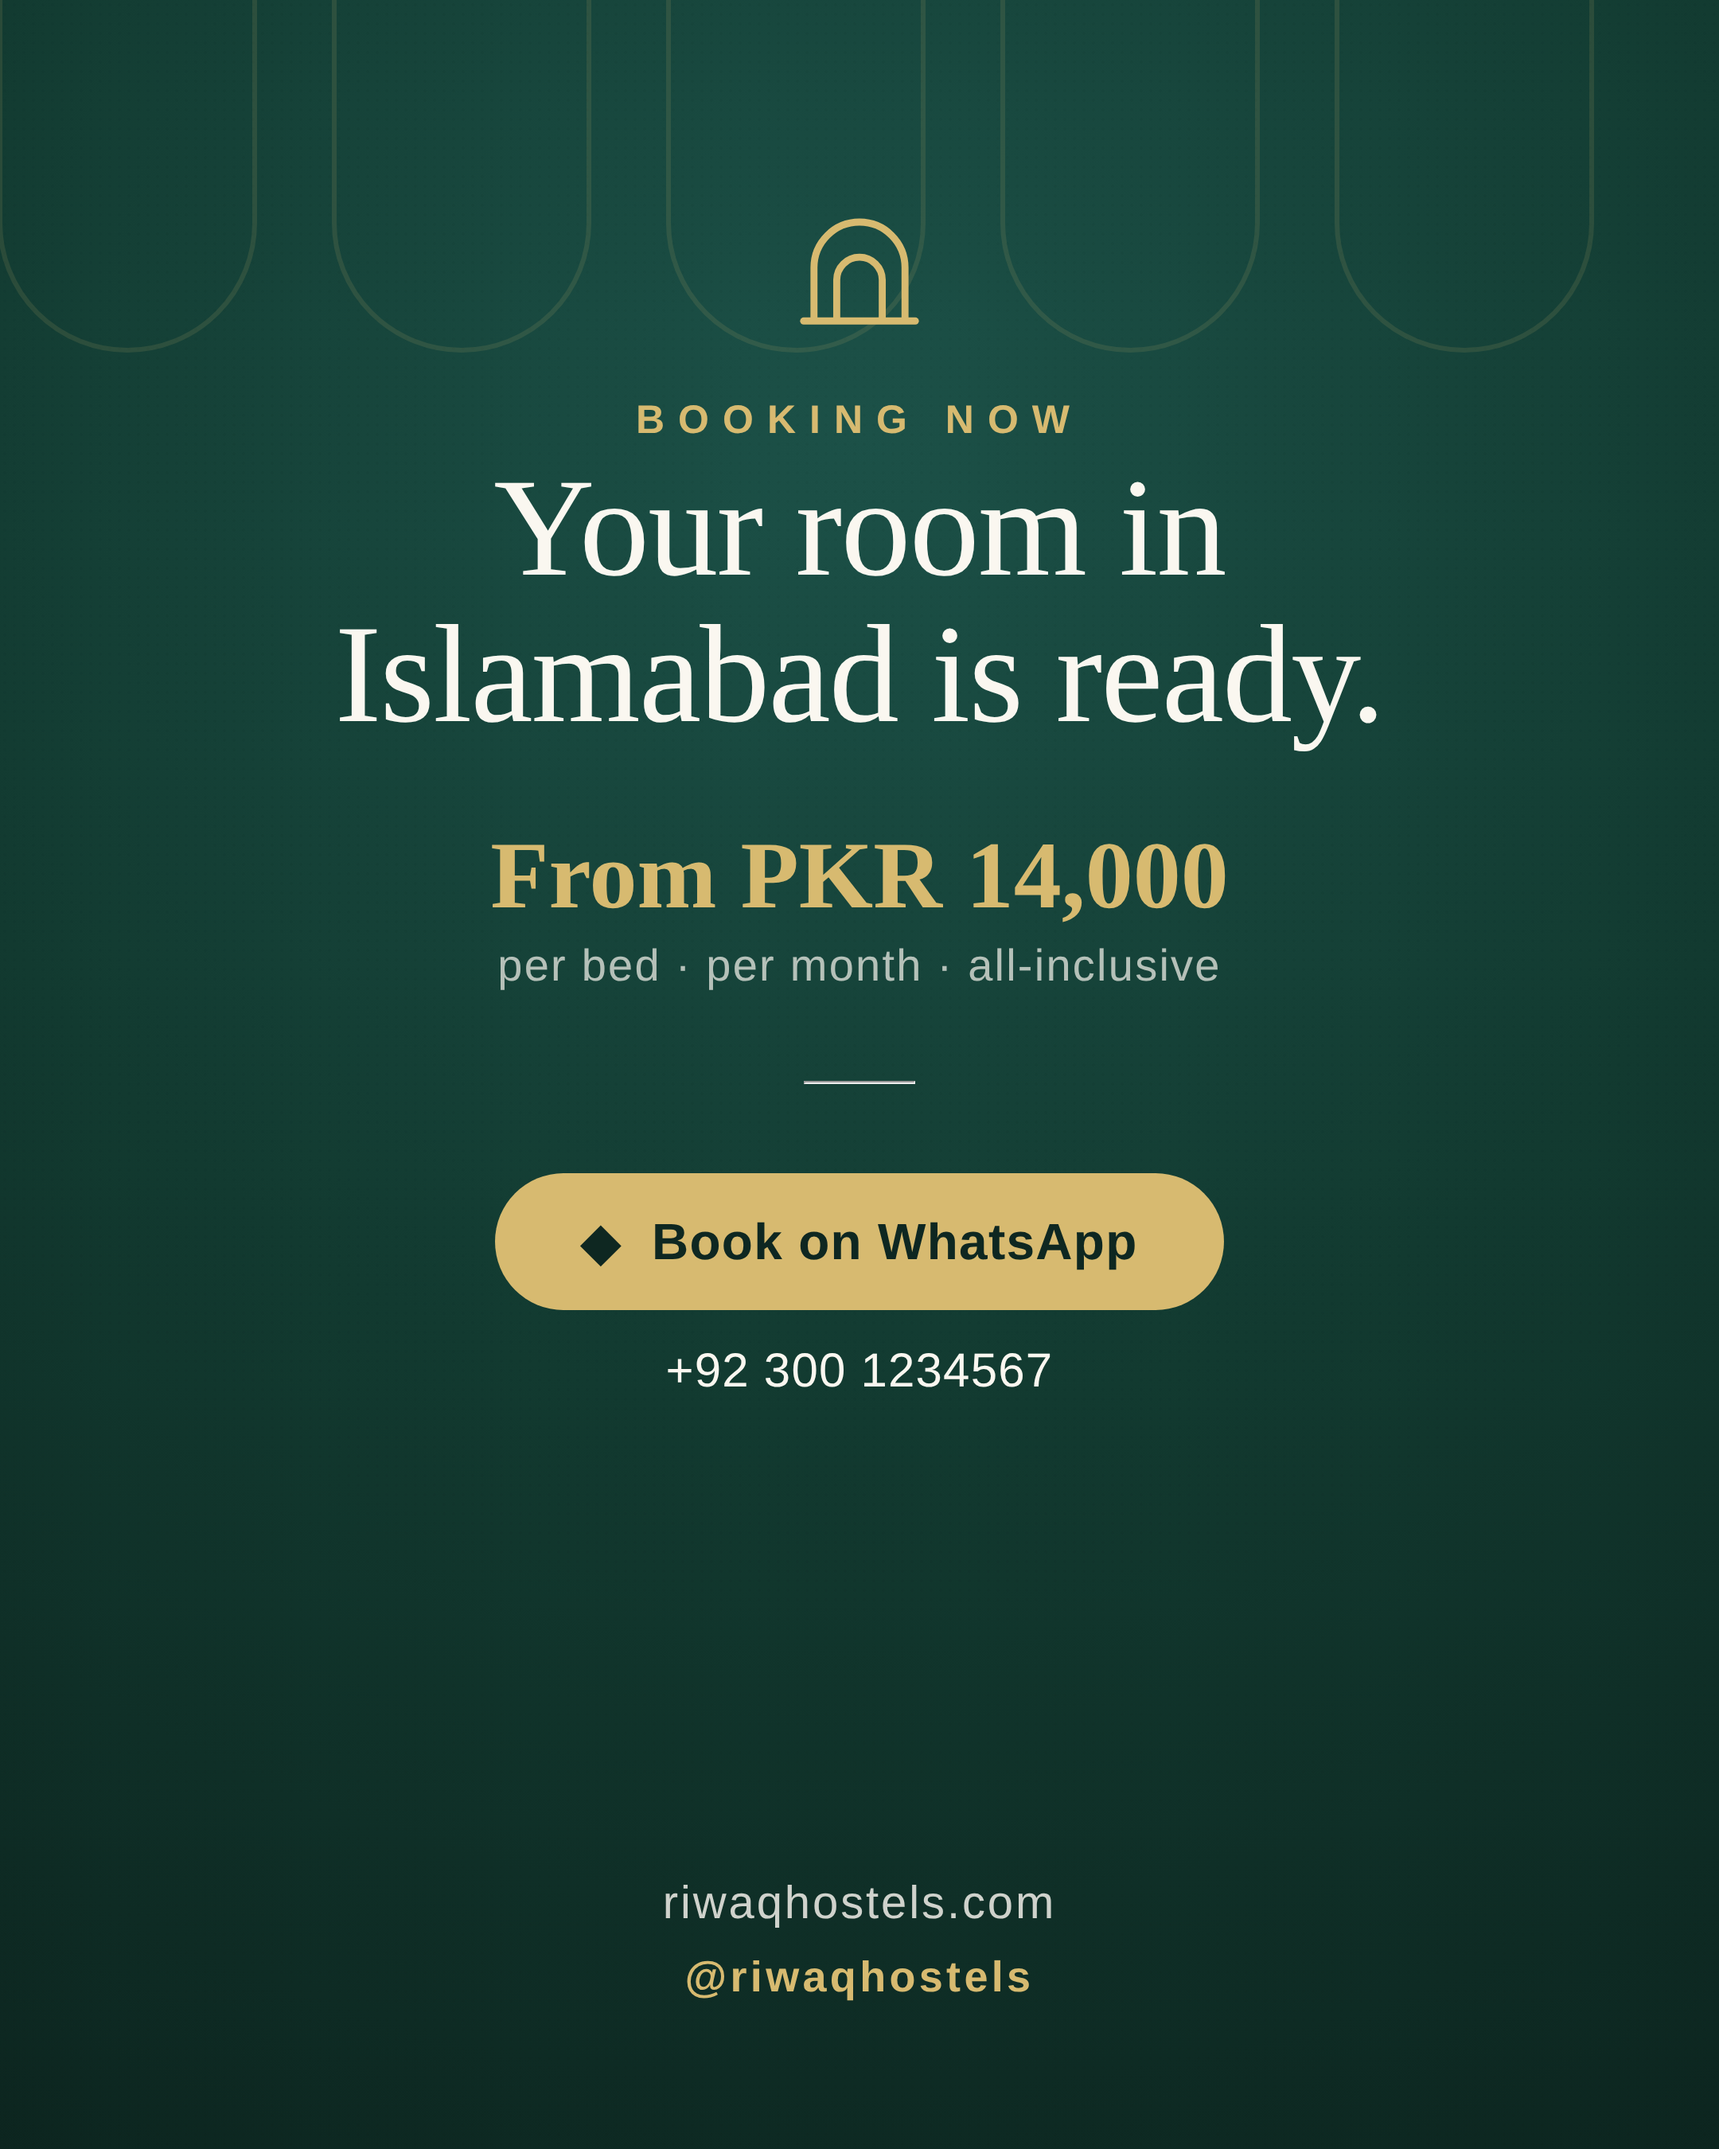
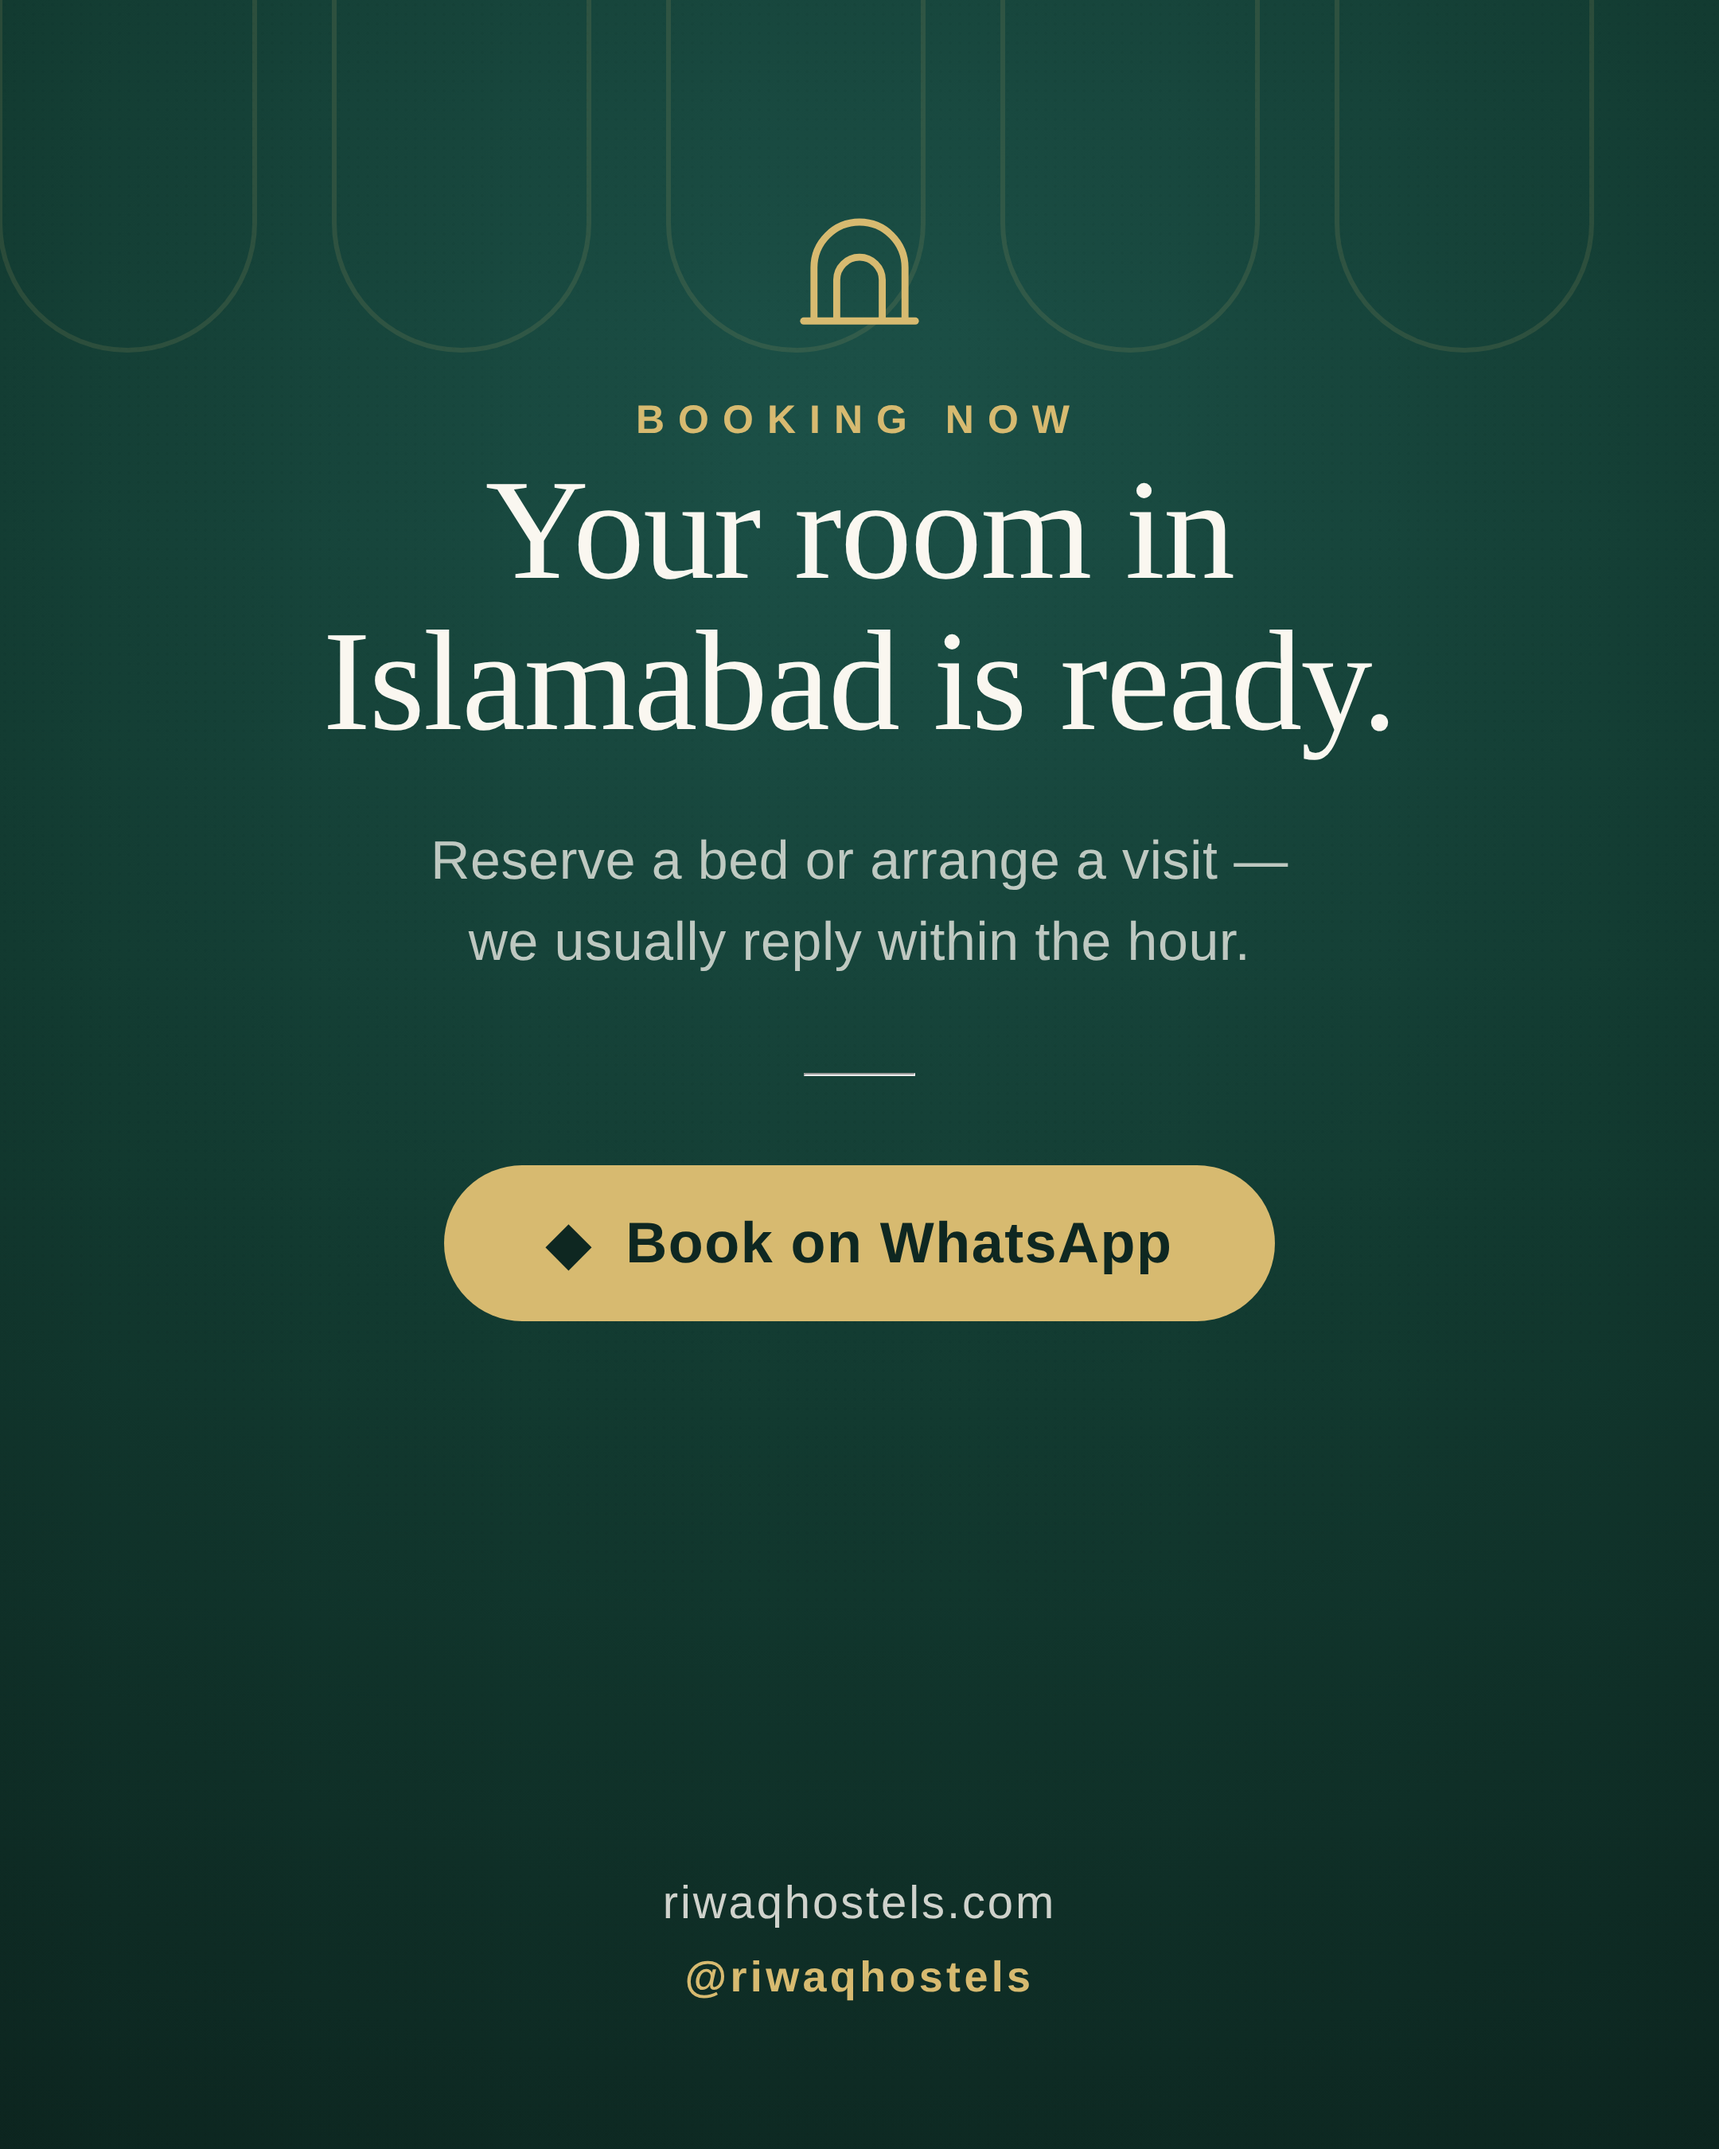
Revise IG CTA slide — remove price and phone number
Per feedback: drop the "From PKR 14,000" pricing and the WhatsApp number from
the launch carousel's CTA slide, keeping a clean "Book on WhatsApp" call to
action with a short supporting line. Regenerated the PNG and updated its source.

Claude-Session: https://claude.ai/code/session_01Axk12iXgc3QbB1gX3FvEiF

Changed region(s): [[0.2481, 0.5289, 0.7444, 0.6533], [0.1861, 0.2178, 0.8065, 0.3733], [0.2481, 0.3733, 0.7134, 0.4667]]

diff --git a/brand-assets/instagram/slide-3-cta.html b/brand-assets/instagram/slide-3-cta.html
@@ -12,14 +12,11 @@
 .inner{position:absolute;inset:0;display:flex;flex-direction:column;align-items:center;text-align:center;padding:120px 96px;z-index:3}
 .eyebrow{font-family:'Inter',sans-serif;font-size:25px;font-weight:600;letter-spacing:.34em;color:#d7ba70;text-transform:uppercase}
 .mark{width:104px;height:104px;margin-bottom:26px}
-.head{font-size:88px;line-height:1.05;font-weight:500;letter-spacing:-.01em;max-width:820px;margin-top:8px}
-.price{margin-top:44px;font-family:'Inter',sans-serif}
-.price .amt{font-family:'Fraunces',serif;font-size:60px;font-weight:600;color:#d7ba70}
-.price .lbl{font-size:28px;color:rgba(250,247,240,.7);letter-spacing:.04em;margin-top:6px}
+.head{font-size:90px;line-height:1.05;font-weight:500;letter-spacing:-.01em;max-width:820px;margin-top:8px}
+.subline{margin-top:40px;font-family:'Inter',sans-serif;font-size:34px;line-height:1.5;font-weight:400;color:rgba(250,247,240,.74);letter-spacing:.01em;max-width:700px}
 .rule{width:70px;height:2px;background:#c9a24b;margin:56px 0}
 .cta{display:flex;flex-direction:column;gap:22px;align-items:center}
-.btn{font-family:'Inter',sans-serif;font-size:32px;font-weight:600;letter-spacing:.02em;color:#0e2721;background:#d7ba70;border-radius:999px;padding:24px 54px;display:inline-flex;align-items:center;gap:16px}
-.line{font-family:'Inter',sans-serif;font-size:30px;font-weight:500;color:#faf7f0;letter-spacing:.02em}
+.btn{font-family:'Inter',sans-serif;font-size:36px;font-weight:600;letter-spacing:.02em;color:#0e2721;background:#d7ba70;border-radius:999px;padding:28px 64px;display:inline-flex;align-items:center;gap:16px}
 .foot{position:absolute;left:0;right:0;bottom:92px;display:flex;flex-direction:column;align-items:center;gap:14px;z-index:3}
 .web{font-family:'Inter',sans-serif;font-size:29px;font-weight:500;color:rgba(250,247,240,.82);letter-spacing:.05em}
 .handle{font-family:'Inter',sans-serif;font-size:27px;font-weight:600;letter-spacing:.08em;color:#d7ba70}
@@ -47,14 +44,10 @@
     </svg>
     <div class="eyebrow">Booking now</div>
     <div class="head">Your room in<br/>Islamabad is ready.</div>
-    <div class="price">
-      <div class="amt">From PKR 14,000</div>
-      <div class="lbl">per bed · per month · all-inclusive</div>
-    </div>
+    <div class="subline">Reserve a bed or arrange a visit —<br/>we usually reply within the hour.</div>
     <hr class="rule"/>
     <div class="cta">
       <span class="btn">◆&nbsp; Book on WhatsApp</span>
-      <span class="line">+92 300 1234567</span>
     </div>
   </div>
   <div class="foot">
